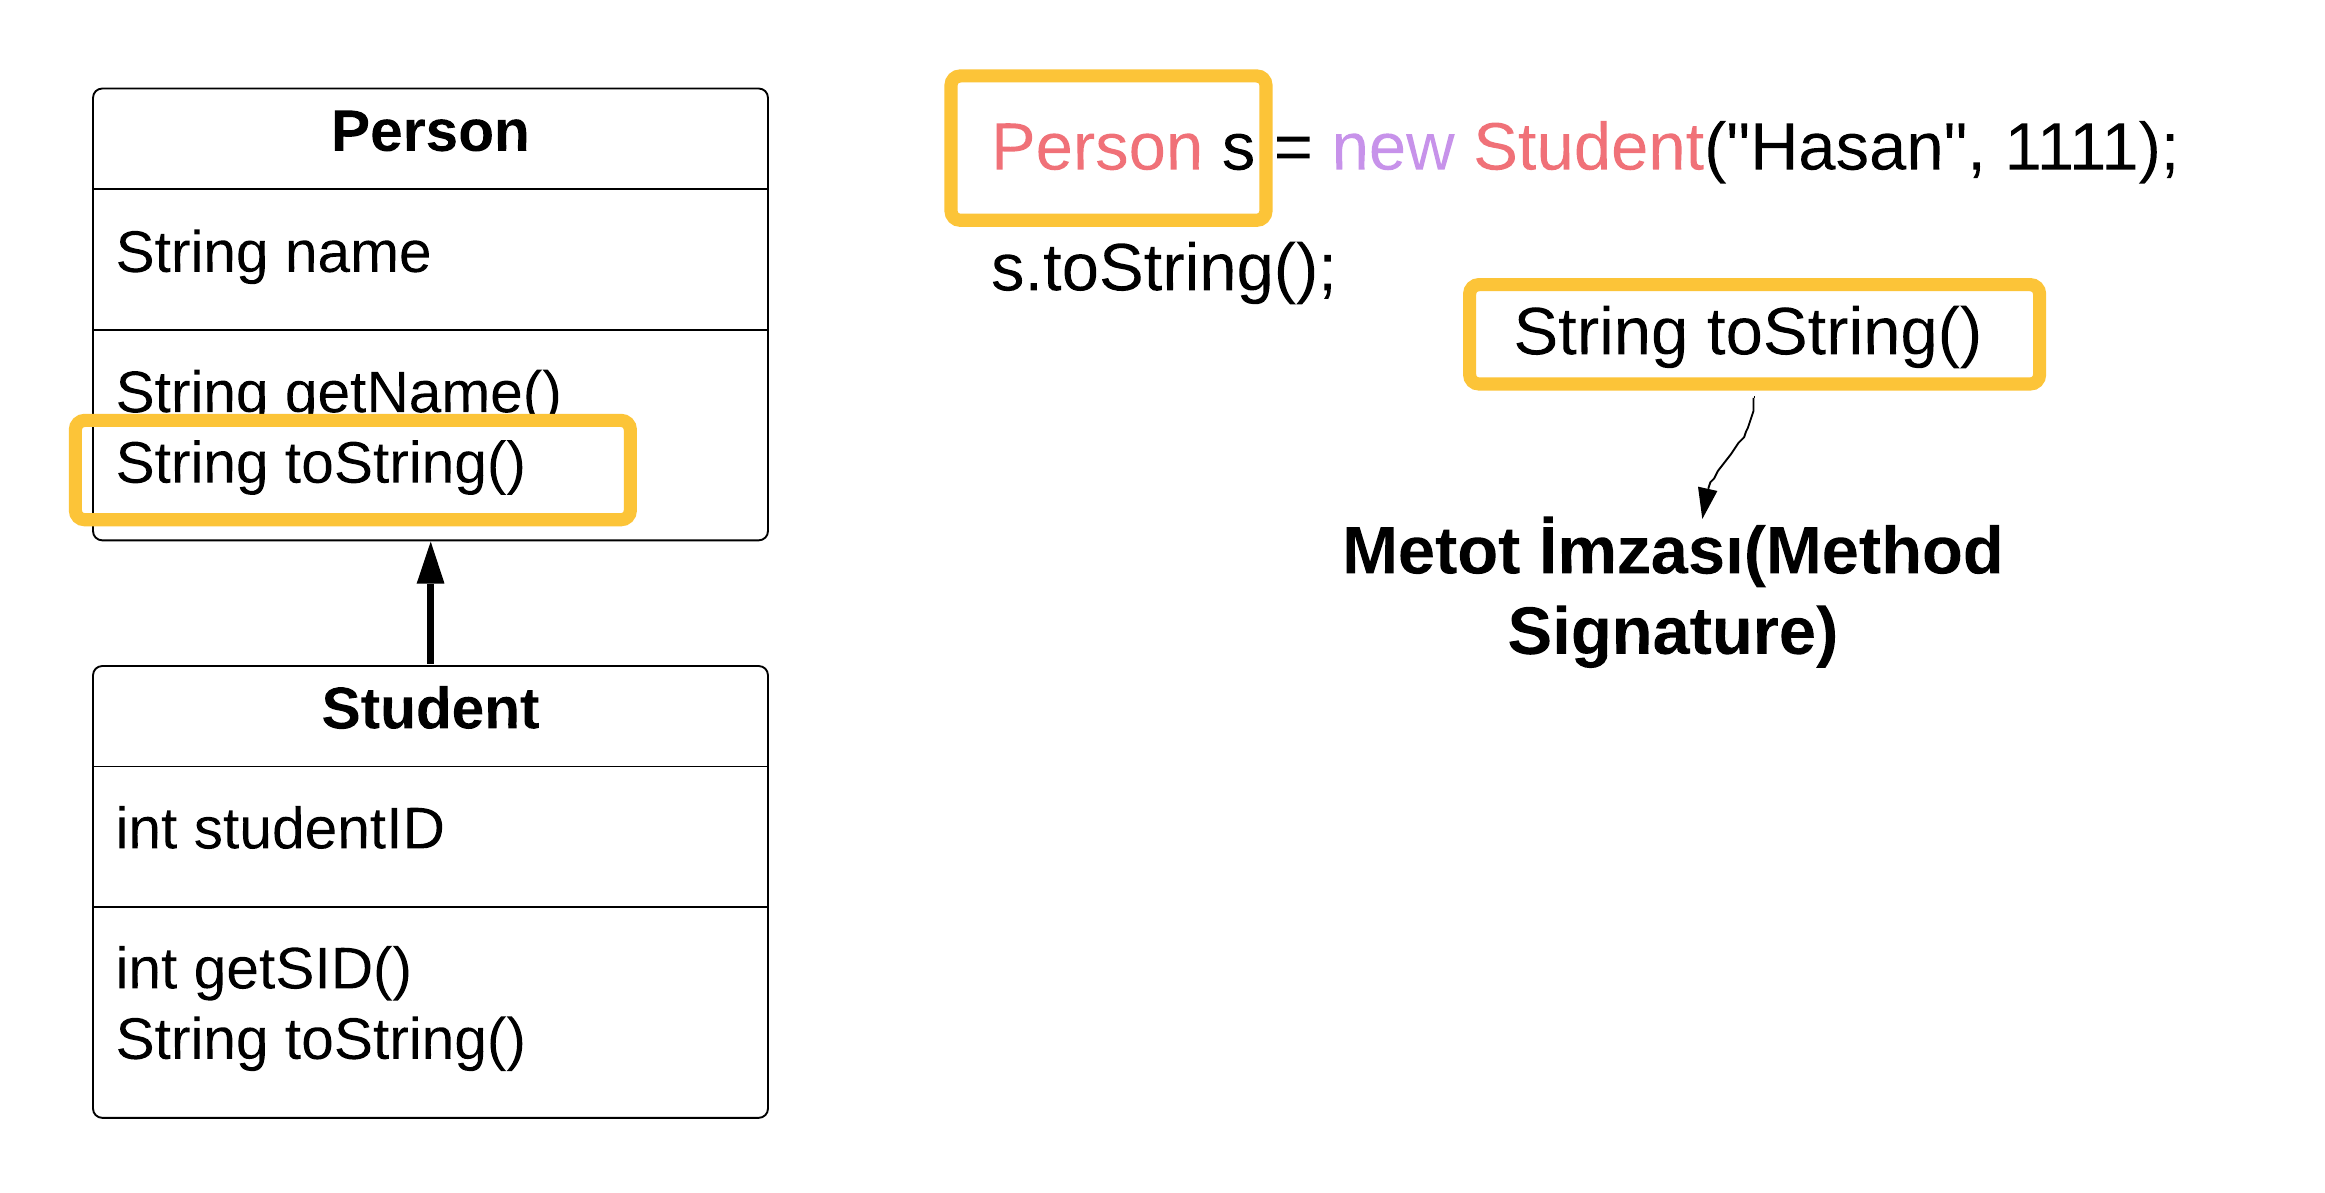
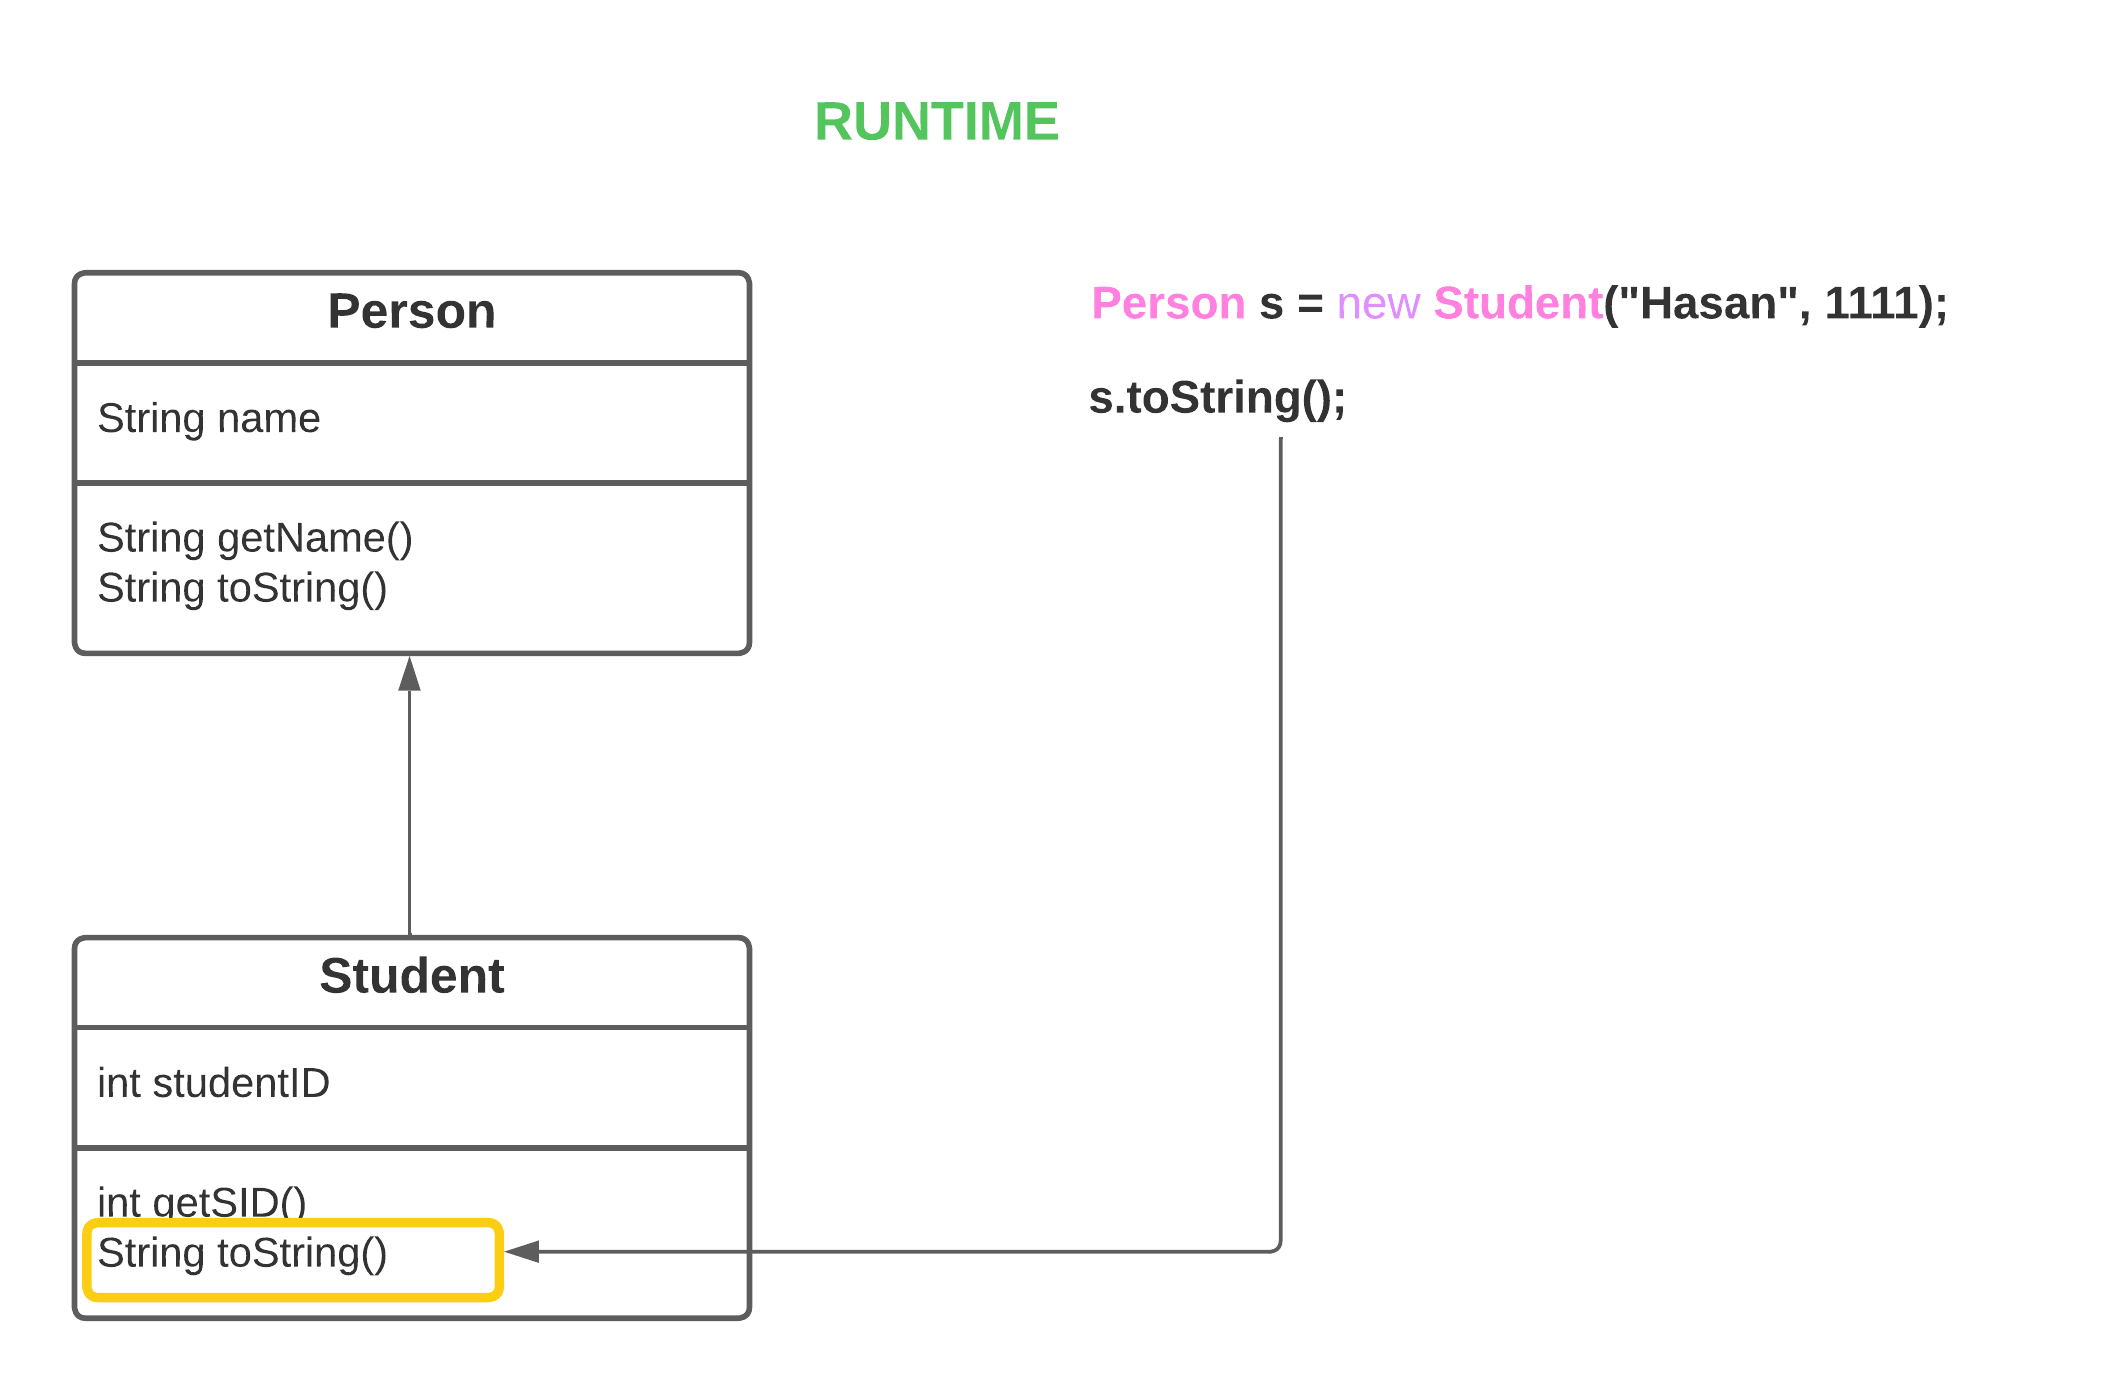
Updated post

diff --git a/_posts/2020-09-15-Java-polimorfizm2.md b/_posts/2020-09-15-Java-polimorfizm2.md
@@ -55,40 +55,41 @@ Bu sözün aslında altında yatan mantık çok açıktır. Çünkü bir kodu he
     </figure>
 
 
-3. **Derleyici bir yöntem imzası çıkarır:** Sonrasında derleme zamanında gerçekleşen bir diğer şey, çalışma zamanında yürütülecek parametresiz bir toString yöntemi imzasının derleyici tarafından yayımlanmasıdır.
-
-    <figure style="width: 600px" class="align-center">
-      <img src="{{ site.url }}{{ site.baseurl }}/assets/images/2020-06-29-Java-polimorfizm2/uml3.png" alt="polimorfizm">
-      <figcaption></figcaption>
-    </figure>
-
-
 ## Çalışma Zamanı Kuralları
 
-1. **Çalışma zamanında, ilgili yöntemi bulmak için java, nesnenin çalışma zamanı türünü izler**
-2. **Derleme zamanında yayımlanan yöntem imzasını gerçek çalışma zamanı sınıfındaki uygun yöntemle eşleştirir:** Yukarıdaki örnekten yola çıkarsak, ``s.toString`` yapmaya çalıştığımızda, artık Java çalışma zamanında, **s**'in aslında bir Student nesnesi olduğunu bilir. Yani Student sınıfında toString yöntemini bulacak ve çalışma zamanında çalıştıracaktır.
+1. **Çalışma zamanında, ilgili yöntemin geçersiz kılınıp kılınmadığına bakar** Şayet geçersiz kılınmışsa, doğrudan geçersiz kılınan yöntemi çalıştırır. Yani bu örnekte yöntemin geçersiz kılındığını görüyoruz. O yüzden çalışma zamanında **Student** sınıfının ``toString`` metodu çalışacaktır.
 
-    <figure style="width: 600px" class="align-center">
-      <img src="{{ site.url }}{{ site.baseurl }}/assets/images/2020-06-29-Java-polimorfizm2/uml4.png" alt="polimorfizm">
-      <figcaption></figcaption>
-    </figure>
+<figure style="width: 600px" class="align-center">
+  <img src="{{ site.url }}{{ site.baseurl }}/assets/images/2020-06-29-Java-polimorfizm2/uml3.png" alt="polimorfizm">
+  <figcaption></figcaption>
+</figure>
 
-Aslında polimorfizm derleme zamanı ve çalışma zamanı polimorfizmi olarak ikiye ayırabiliriz. Derleme zamanında alınan kararlar sonucu gerçekleşen bağlanmalara statik/erken bağlanma(static or early binding), çalışma zamanında alınan kararlar sonucu gerçekleşen bağlanmalara da dinamik/geç bağlanma(dynamic or late binding) denir. Bununla ilgili aslında ayrı bir bölüm açmayı planlıyorum. Çünkü burada bahsedilenlerin dışında da değineceğim bilgiler var.
+2. İlgili yöntem **geçersiz kılınmamışsa**, referans tipinin sınıfındaki yöntem neyse aynen onu kullanır. Bu kısım çok önemlidir. Çünkü, çalışma zamanında da olsak şayet ortada bir geçersiz kılma işlemi **yoksa** referans türü neyse o baz alınır. Farzedelim ki yukarıdaki örnek şu şekilde olsaydı(Student sınıfına odaklanmanızı istiyorum. Dikkat ederseniz ``toString`` metodu override edilmemiş)
+
+<figure style="width: 600px" class="align-center">
+  <img src="{{ site.url }}{{ site.baseurl }}/assets/images/2020-06-29-Java-polimorfizm2/uml4.png" alt="polimorfizm">
+  <figcaption></figcaption>
+</figure>
+
+``s.toString`` yazarak metodu çağırmaya çalıştığımızda, **Person** sınıfındaki ``toString`` metodu çalışacaktır.
+
+
+Aslında polimorfizm, **derleme zamanı** ve **çalışma zamanı polimorfizmi** olarak ikiye ayırabiliriz. Derleme zamanında alınan kararlar sonucu gerçekleşen bağlanmalara **statik/erken bağlanma(static or early binding)**, çalışma zamanında alınan kararlar sonucu gerçekleşen bağlanmalara da **dinamik/geç bağlanma(dynamic or late binding)** denir. Bununla ilgili aslında ayrı bir bölüm açmayı planlıyorum. Çünkü burada bahsedilenlerin dışında da değineceğim bilgiler var.
 
 Şimdi yukarıdaki kuralları düşünerek aşağıdaki soruya cevap bulmaya çalışalım.
 
 ## Örnek
 
-Bu sefer s referansı ile getSID() metoduna ulaşmaya çalışacağız. Yukarıda yazdığım için tekrardan Student ve Person sınıflarını yazma gereği duymadım. Göreceğiniz üzere bu metot Student sınıfının içinde yer almaktadır. Sizce bu kod çalışır mı?
+Bu sefer **s** referansı ile **getSID()** metoduna ulaşmaya çalışacağız. Yukarıda yazdığım için tekrardan **Student** ve **Person** sınıflarını yazma gereği duymadım. Göreceğiniz üzere bu metot **Student** sınıfının içinde yer almaktadır. Sizce bu kod çalışır mı?
 
 ```java
 Person s = new Student("Hasan", 1234);
 s.getSID();
 ```
 
-Aslında ilk bakışta kodun çalışacağını düşünebiliriz. Ama çalışma zamanı dışında bir de derleme zamanı kararlarına uymamız gerekmektedir. Sırayla ilerleyecek olursak kodun çalışması için ilk önce derleme zamanı kurallarını karşılaması gerekmektedir. Koda tekrar bakacak olursak, derleyici yalnızca Person içindeki yöntemleri bilecektir. Çünkü derleyiciye göre s bir Person referansıdır. Dolayısıyla, derleyici Person sınıfında ``getSID`` yöntemini bulmaya çalışacaktır. Fakat bu yöntemin Person sınıfında olmadığını biliyoruz. Bu sebepten ötürü bir derleme hatası alırız. Yani kodun çalışma zamanına geçme şansı olmayacaktır.
+Aslında ilk bakışta kodun çalışacağını düşünebiliriz. Ama çalışma zamanı dışında bir de derleme zamanı kararlarına uymamız gerekmektedir. Sırayla ilerleyecek olursak kodun çalışması için ilk önce derleme zamanı kurallarını karşılaması gerekmektedir. Koda tekrar bakacak olursak, derleyici yalnızca **Person** içindeki yöntemleri bilecektir. Çünkü derleyiciye göre **s** bir **Person** referansıdır. Dolayısıyla, derleyici **Person** sınıfında ``getSID`` yöntemini bulmaya çalışacaktır. Fakat bu yöntemin **Person** sınıfında olmadığını biliyoruz. Bu sebepten ötürü bir **derleme hatası** alırız. Yani kodun çalışma zamanına geçme şansı olmayacaktır.
 
-Yalnız koda baktığımızda bu metodun Student sınıfında bulunduğunu biliyoruz. Peki bizim bu bildiğimizi derleyicinin bilmesini nasıl sağlarız. Bunun yöntemi **casting**'dir. Bir sonraki ders bu konu üzerine konuşacağız.
+Yalnız koda baktığımızda bu metodun **Student** sınıfında bulunduğunu biliyoruz. Peki bizim bu bildiğimizi derleyicinin bilmesini nasıl sağlarız. Bunun yöntemi **casting**'dir. Bir sonraki ders bu konu üzerine konuşacağız.
 
 ## Özet
 Polimorfizm konusundan bahsederken sıklıkla derleme ve çalışma zamanı kararlarından bahsettik. Aslında polimorfizmi tanımsal olarak rahatlıkla ikiye ayırabiliriz.
